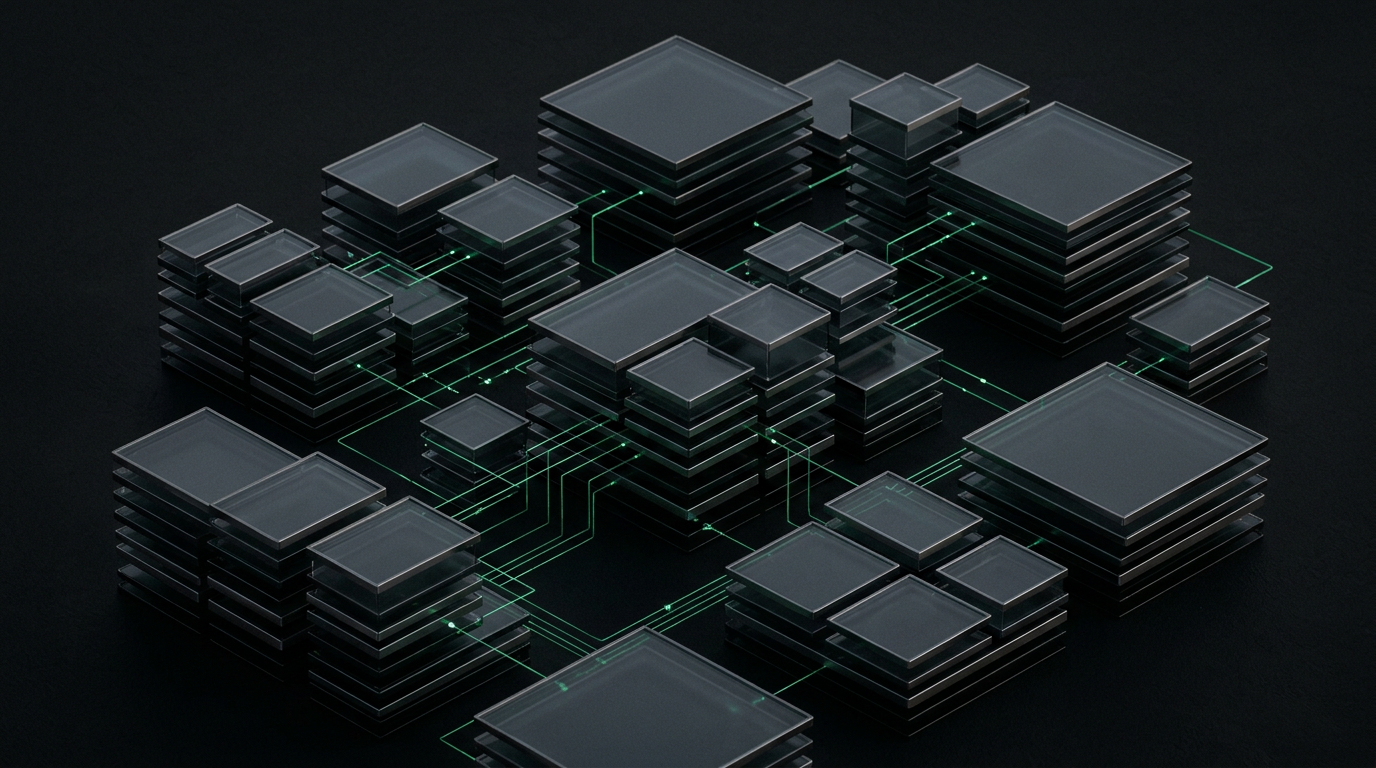
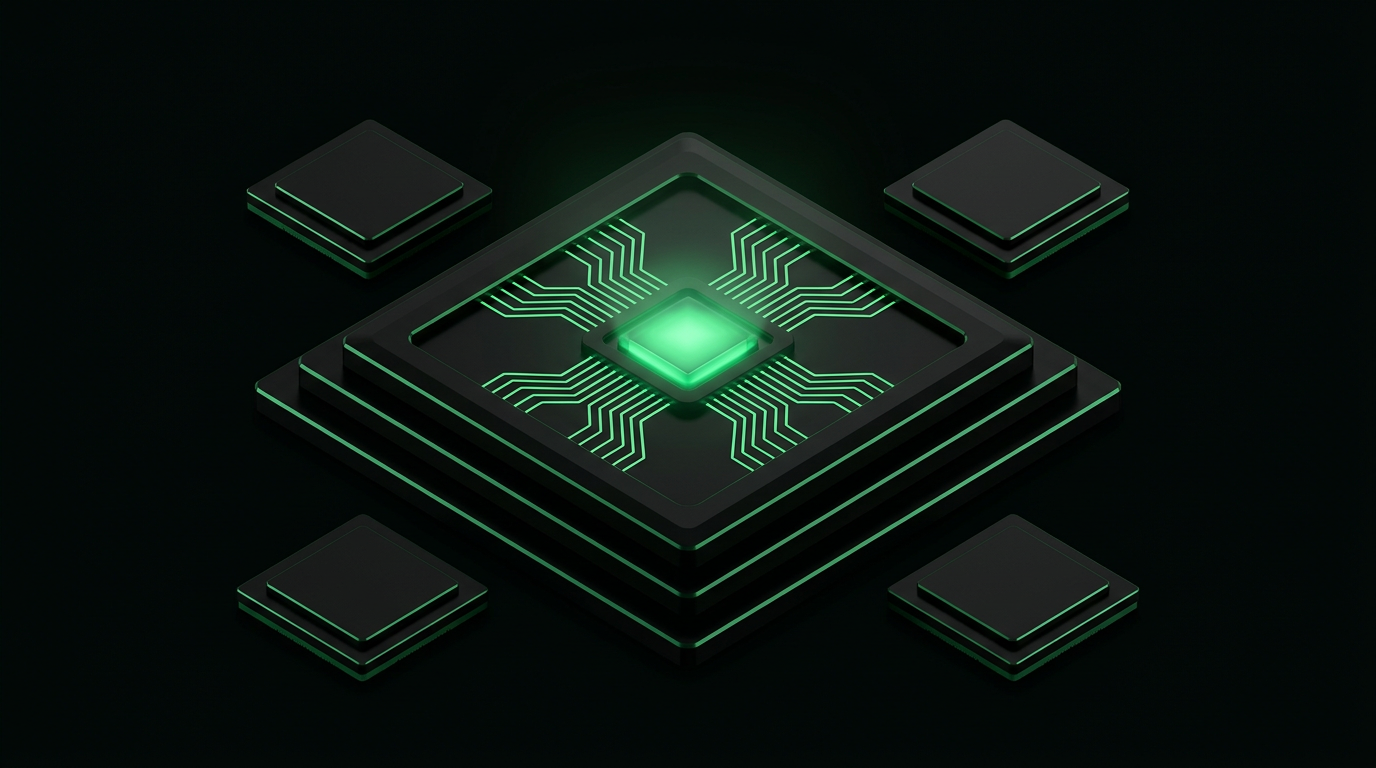
feat: update Action component with new button styles in agynexa-shell

diff --git a/@components/agynexa-shell.tsx b/@components/agynexa-shell.tsx
@@ -4,12 +4,13 @@ import Link from 'next/link'
 import {usePathname} from 'next/navigation'
 import {Menu,X,ArrowUpRight} from 'lucide-react'
 import {nav, type Copy} from '@/lib/agynexa'
+import {Button,buttonVariants} from '@/components/ui/button'
 const LanguageContext=createContext({ar:false,t:(copy:readonly string[])=>copy[0]})
 export const useLanguage=()=>useContext(LanguageContext)
-export function Action({href,children}:{href:string;children:React.ReactNode}){return <Link className="action" href={href}>{children}<ArrowUpRight size={16}/></Link>}
+export function Action({href,children}:{href:string;children:React.ReactNode}){return <Link className={buttonVariants({size:'lg'})} href={href}>{children}<ArrowUpRight size={16}/></Link>}
 export default function Shell({children}:{children:React.ReactNode}){
  const [ar,setAr]=useState(false),[open,setOpen]=useState(false);const path=usePathname();const t=(copy:readonly string[])=>copy[ar?1:0]
  useEffect(()=>{document.documentElement.lang=ar?'ar':'en';document.documentElement.dir=ar?'rtl':'ltr'},[ar])
  useEffect(()=>setOpen(false),[path])
- return <LanguageContext.Provider value={{ar,t}}><a href="#main" className="skip">{t(['Skip to content','تجاوز إلى المحتوى'])}</a><header className="site-header"><div className="container flex flex-wrap items-center justify-between gap-4 py-4"><Link href="/" aria-label="AGYNEXA home" className="brand">AGYNEXA<span className="text-emerald-500">.</span></Link><nav aria-label={t(['Main navigation','التنقل الرئيسي'])} className="hidden items-center gap-6 xl:flex">{nav.slice(0,5).map(([slug,en,ar])=><Link key={slug} aria-current={path===`/${slug}`?'page':undefined} href={`/${slug}`}>{t([en,ar])}</Link>)}</nav><div className="flex items-center gap-3"><button className="quiet" onClick={()=>setAr(!ar)} lang={ar?'en':'ar'}>{ar?'English':'العربية'}</button><div className="hidden sm:block"><Action href="/start">{t(['Start a project','ابدأ مشروعًا'])}</Action></div><button className="quiet" aria-expanded={open} aria-controls="site-menu" aria-label={t(['Toggle menu','فتح القائمة'])} onClick={()=>setOpen(!open)}>{open?<X size={20}/>:<Menu size={20}/>}</button></div></div>{open&&<nav id="site-menu" className="container grid gap-2 border-t py-6 sm:grid-cols-3">{nav.map(([slug,en,ar])=><Link className="quiet" key={slug} href={`/${slug}`}>{t([en,ar])}</Link>)}<Link className="quiet" href="/agentnexos">AgentNexOS</Link><Link className="quiet" href="/start">{t(['Start a project','ابدأ مشروعًا'])}</Link></nav>}</header>{children}<footer className="border-t"><div className="container grid gap-12 py-16 md:grid-cols-3"><div><Link className="brand" href="/">AGYNEXA<span className="text-emerald-500">.</span></Link><p className="muted mt-6">{t(['Systems with purpose. Decisions with evidence.','أنظمة لهدف واضح. وقرارات تستند للأدلة.'])}</p><a className="inline-flex min-h-11 items-center mt-4" href="mailto:adham@agynexa.si">adham@agynexa.si</a></div><nav className="grid grid-cols-2 gap-2">{nav.map(([slug,en,ar])=><Link className="min-h-11" key={slug} href={`/${slug}`}>{t([en,ar])}</Link>)}</nav><div><Action href="/agentnexos">AgentNexOS</Action><p className="muted mt-4 text-sm">{t(['Local interface preview. No connected services or live agent execution.','معاينة واجهة محلية. لا خدمات متصلة أو تنفيذ فعلي للوكلاء.'])}</p></div></div><div className="container border-t py-6 text-sm muted flex flex-wrap justify-between gap-4"><span>© {new Date().getFullYear()} AGYNEXA</span><Link href="/resources#asset-sources">{t(['Asset sources','مصادر الأصول'])}</Link></div></footer></LanguageContext.Provider>
+ return <LanguageContext.Provider value={{ar,t}}><a href="#main" className="skip">{t(['Skip to content','تجاوز إلى المحتوى'])}</a><header className="site-header"><div className="container flex flex-wrap items-center justify-between gap-4 py-4"><Link href="/" aria-label="AGYNEXA home" className="brand">AGYNEXA<span className="text-emerald-500">.</span></Link><nav aria-label={t(['Main navigation','التنقل الرئيسي'])} className="hidden items-center gap-6 xl:flex">{nav.slice(0,5).map(([slug,en,ar])=><Link key={slug} aria-current={path===`/${slug}`?'page':undefined} href={`/${slug}`}>{t([en,ar])}</Link>)}</nav><div className="flex items-center gap-3"><Button variant="outline" size="lg" onClick={()=>setAr(!ar)} lang={ar?'en':'ar'}>{ar?'English':'العربية'}</Button><div className="hidden sm:block"><Action href="/start">{t(['Start a project','ابدأ مشروعًا'])}</Action></div><button className="quiet" aria-expanded={open} aria-controls="site-menu" aria-label={t(['Toggle menu','فتح القائمة'])} onClick={()=>setOpen(!open)}>{open?<X size={20}/>:<Menu size={20}/>}</button></div></div>{open&&<nav id="site-menu" className="container grid gap-2 border-t py-6 sm:grid-cols-3">{nav.map(([slug,en,ar])=><Link className="quiet" key={slug} href={`/${slug}`}>{t([en,ar])}</Link>)}<Link className="quiet" href="/agentnexos">AgentNexOS</Link><Link className="quiet" href="/start">{t(['Start a project','ابدأ مشروعًا'])}</Link></nav>}</header>{children}<footer className="border-t"><div className="container grid gap-12 py-16 md:grid-cols-3"><div><Link className="brand" href="/">AGYNEXA<span className="text-emerald-500">.</span></Link><p className="muted mt-6">{t(['Systems with purpose. Decisions with evidence.','أنظمة لهدف واضح. وقرارات تستند للأدلة.'])}</p><a className="inline-flex min-h-11 items-center mt-4" href="mailto:adham@agynexa.si">adham@agynexa.si</a></div><nav className="grid grid-cols-2 gap-2">{nav.map(([slug,en,ar])=><Link className="min-h-11" key={slug} href={`/${slug}`}>{t([en,ar])}</Link>)}</nav><div><Action href="/agentnexos">AgentNexOS</Action><p className="muted mt-4 text-sm">{t(['Local interface preview. No connected services or live agent execution.','معاينة واجهة محلية. لا خدمات متصلة أو تنفيذ فعلي للوكلاء.'])}</p></div></div><div className="container border-t py-6 text-sm muted flex flex-wrap justify-between gap-4"><span>© {new Date().getFullYear()} AGYNEXA</span><Link href="/resources#asset-sources">{t(['Asset sources','مصادر الأصول'])}</Link></div></footer></LanguageContext.Provider>
 }

diff --git a/app/globals.css b/app/globals.css
@@ -160,7 +160,7 @@
   --popover: #0B0B0B; --popover-foreground: #EBEBEB;
   --muted: #0B0B0B; --muted-foreground: #BFBFBF;
   --secondary: #0B0B0B; --secondary-foreground: #EBEBEB;
-  --primary: #EBEBEB; --primary-foreground: #050505;
+  --primary: #20d99a; --primary-foreground: #03110c;
   --accent: #0B0B0B; --accent-foreground: #10B981;
   --border: #EBEBEB26; --input: #EBEBEB26; --ring: #10B981;
 }
@@ -186,6 +186,40 @@ h2 { font-size: clamp(28px, 4vw, 48px); letter-spacing: -.04em; } h3 { font-size
 .flow-line { stroke-dasharray: 8 8; animation: flow 5s linear infinite; } @keyframes flow { to { stroke-dashoffset: -96; } }
 @media(max-width: 640px) { .section { padding-block: 64px; } .panel { padding: 24px; } }
 @media(prefers-reduced-motion: reduce) { *, *::before, *::after { animation: none !important; transition: none !important; scroll-behavior: auto !important; } }
+
+.premium-hero { padding: 72px 0 0; overflow: hidden; background: radial-gradient(ellipse at 50% 75%, #073b282e, transparent 65%), #050505; }
+.hero-heading { text-align: center; margin: 0 auto 52px; max-width: 900px; }
+.hero-heading .eyebrow { display: flex; align-items: center; justify-content: center; gap: 10px; font-size: 11px; }
+.status-dot { display: inline-block; width: 6px; height: 6px; border-radius: 50%; background: var(--primary); box-shadow: 0 0 12px #20d99a77; flex-shrink: 0; }
+.hero-heading h1 { font-size: clamp(38px, 5.2vw, 72px); font-weight: 500; letter-spacing: -.055em; line-height: 1.08; }
+.hero-heading h1 span { color: var(--primary); }
+.hero-description { color: #9baba3; max-width: 570px; margin: 24px auto 28px; font-size: 16px; }
+.hero-stage { border: 1px solid #234134; border-radius: 14px 14px 0 0; overflow: hidden; background: #080c0a; box-shadow: 0 0 0 6px #0b100d, 0 0 0 7px #ffffff05, 0 32px 90px #000, 0 -15px 100px #0a6c2310; }
+.stage-toolbar { height: 44px; display: flex; align-items: center; justify-content: space-between; padding: 0 24px; font-family: monospace; font-size: 10px; letter-spacing: .08em; border-bottom: 1px solid #213429; color: #7eaa94; background: linear-gradient(#141b16,#090d0a); }
+.stage-media { position: relative; height: 390px; overflow: hidden; background: #030706; }
+.architecture-video { width: 100%; height: 100%; object-fit: cover; filter: grayscale(1) sepia(1) hue-rotate(95deg) saturate(1.8) brightness(.8); }
+.video-tint { position: absolute; inset: 0; pointer-events: none; background: linear-gradient(0deg, #030706e8, transparent 50%), linear-gradient(90deg,#001b1133, transparent,#001b1133); }
+.video-control { position: absolute; right: 20px; top: 20px; }
+.stage-caption { position: absolute; bottom: 28px; left: 32px; right: 32px; pointer-events: none; }
+.stage-caption-tag { font: 10px monospace; color: #20d99a; letter-spacing: .16em; }
+.stage-caption p { font-size: 25px; margin-top: 8px; }
+.stage-footer { display: grid; grid-template-columns: repeat(3,1fr); border-top: 1px solid #1a3024; }
+.stage-footer>div { display: flex; gap: 14px; align-items: center; padding: 20px 24px; font-size: 12px; }
+.stage-footer>div+div { border-inline-start: 1px solid #1a3024; }
+.stage-footer span { color: var(--primary); font: 10px monospace; } .stage-footer svg { margin-inline-start: auto; color: #5f8e75; }
+.panel { background: linear-gradient(145deg,#121814 0%,#080b09 45%,#050706 100%); border-color: #26352c; box-shadow: inset 0 1px 0 #ffffff06, 0 12px 24px #0005; border-radius: 10px; }
+a.panel { transition: border-color .25s, transform .25s, box-shadow .25s; }
+a.panel:hover { transform: translateY(-4px); border-color: #20d99a88; box-shadow: 0 18px 35px #000, inset 0 1px 0 #20d99a44; color: var(--foreground); }
+a.panel>div:first-child { padding-bottom: 20px; border-bottom: 1px solid #193225; }
+a.panel>p:last-child { color: var(--primary); }
+.section { background: radial-gradient(ellipse at 50% 100%, #0b1b111c, transparent 65%); }
+.site-header { background: linear-gradient(#0b0e0c,#050505); }
+.site-header nav a { font-size: 13px; color: #a8b5ad; } .site-header nav a:hover { color: var(--primary); }
+.action { background: var(--primary); color: var(--primary-foreground); border-color: #59edb7; box-shadow: inset 0 1px 0 #b7ffe855, 0 4px 16px #10b98112; }
+.action:hover { background: #49edb1; color: #03110c; }
+[lang=ar] .hero-heading h1 { line-height: 1.45; }
+[data-slot=dialog-content] { border: 1px solid #25523b; box-shadow: 0 24px 100px #000; background: #080d0a; }
+@media(max-width:640px) { .premium-hero { padding-top: 48px; } .hero-heading { margin-bottom: 36px; } .hero-description { font-size: 14px; } .stage-media { height: 300px; } .stage-toolbar { padding: 0 12px; font-size: 8px; } .stage-toolbar>span:last-child { display: none; } .stage-footer>div { padding: 14px 10px; gap: 8px; font-size: 10px; } .stage-footer svg { display: none; } .stage-caption { left: 20px; right: 20px; } .stage-caption p { font-size: 20px; } }
 
 @layer base {
   * {

diff --git a/@components/landing-5-hero-section.tsx b/@components/landing-5-hero-section.tsx
@@ -1,4 +1,10 @@
 'use client'
+import { ArrowUpRight, Play, Command, Database, ShieldCheck, Workflow } from 'lucide-react'
 import HeroVideo from './landing-5-hero-video'
-import {Action,useLanguage} from './agynexa-shell'
-export default function HeroSection(){const {t}=useLanguage();return <section className="relative mx-auto flex min-h-[640px] flex-col justify-end lg:min-h-200 xl:aspect-video"><div className="absolute inset-0 overflow-hidden"><HeroVideo/><div className="absolute inset-0 pointer-events-none bg-gradient-to-t from-background via-background/10 to-transparent"/></div><div className="container relative z-10 pb-12 pointer-events-none"><div className="max-w-4xl"><p className="eyebrow">{t(['Enterprise agent engineering','هندسة وكلاء المؤسسات'])}</p><h1 className="max-w-3xl text-5xl tracking-tight md:text-7xl">{t(['Intelligence, built to do real work.','ذكاء مصمّم لإنجاز عمل حقيقي.'])}</h1><div className="mt-8 flex flex-wrap items-end justify-between gap-8"><p className="max-w-lg muted text-lg">{t(['Connect your knowledge, tools and decisions. Keep permissions explicit. Keep people in control.','اربط المعرفة والأدوات والقرارات. بصلاحيات واضحة، وتحكم يبقى بيد الإنسان.'])}</p><div className="pointer-events-auto"><Action href="/start">{t(['Define your next system','حدّد نظامك القادم'])}</Action></div></div></div></div></section>}
+import { Action, useLanguage } from './agynexa-shell'
+import { Button } from '@/components/ui/button'
+import { Dialog, DialogTrigger, DialogContent, DialogHeader, DialogTitle, DialogDescription } from '@/components/ui/dialog'
+export default function HeroSection() {
+ const {t,ar}=useLanguage()
+ return <section className="premium-hero"><div className="container"><div className="hero-heading"><p className="eyebrow"><span className="status-dot"/>{t(['ENGINEERED INTELLIGENCE. HUMAN CONTROL.','ذكاء مُهندَس. وتحكّم بشري.'])}</p><h1>{t(['Intelligence, engineered.','ذكاءٌ مُهندَس.'])}<br/><span>{t(['Built for your business.','مصمّم لأعمالك.'])}</span></h1><p className="hero-description">{t(['Your knowledge. Your workflows. One connected agent system. Designed with clear permissions, human oversight and a purpose.','معرفتك. سير عملك. نظام وكلاء مترابط. نصمّمه بصلاحيات واضحة وإشراف بشري وهدف محدّد.'])}</p><div className="flex justify-center flex-wrap gap-3"><Action href="/start">{t(['Engineer your next system','صمّم نظامك القادم'])}</Action><Dialog><DialogTrigger render={<Button variant="outline" size="lg"/>}><Play data-icon="inline-start"/>{t(['Explore the architecture','استكشف البنية'])}</DialogTrigger><DialogContent className="sm:max-w-3xl max-h-[90dvh] overflow-y-auto p-8" dir={ar?'rtl':'ltr'}><DialogHeader><DialogTitle>{t(['A system, not an isolated tool.','نظام مترابط، لا أداة معزولة.'])}</DialogTitle><DialogDescription>{t(['An architectural overview. This is not a live agent execution.','نظرة على البنية، وليست تنفيذًا فعليًا للوكيل.'])}</DialogDescription></DialogHeader><img src="/images/architecture.png" alt={t(['Emerald agent processor and connected modules','معالج وكلاء زمردي ووحدات مترابطة'])} className="w-full rounded-lg"/><div className="grid sm:grid-cols-3 gap-4">{[[Database,'01 / Knowledge','01 / المعرفة'],[Workflow,'02 / Orchestration','02 / التنسيق'],[ShieldCheck,'03 / Human review','03 / مراجعة بشرية']].map(([Icon,en,ar])=>{const I=Icon as typeof Database;return <div className="panel" key={String(en)}><I className="mb-4 text-primary"/><p>{t([en as string,ar as string])}</p></div>})}</div></DialogContent></Dialog></div></div><div className="hero-stage"><div className="stage-toolbar"><span className="flex items-center gap-2"><Command size={15}/> AGYNEXA <span className="muted">/</span> <span className="muted">SYSTEM ENGINEERING</span></span><span className="flex items-center gap-2"><span className="status-dot"/>{t(['ARCHITECTURE FILM','عرض البنية'])}</span></div><div className="stage-media"><HeroVideo/><div className="stage-caption"><span className="stage-caption-tag">AGENTNEXOS / 01</span><p>{t(['From knowledge to coordinated action.','من المعرفة إلى العمل المنسّق.'])}</p></div></div><div className="stage-footer">{[['01','Grounded knowledge','معرفة موثوقة'],['02','Connected workflows','سير عمل مترابط'],['03','Human control','تحكّم بشري']].map(([n,en,ar])=><div key={n}><span>{n}</span><p>{t([en,ar])}</p><ArrowUpRight size={14}/></div>)}</div></div></div></section>
+}

diff --git a/@ui/dialog.tsx b/@ui/dialog.tsx
@@ -1,0 +1,160 @@
+"use client"
+
+import * as React from "react"
+import { Dialog as DialogPrimitive } from "@base-ui/react/dialog"
+import { cn } from "@/lib/utils"
+
+import { Button } from "@/components/ui/button"
+import { XIcon } from "lucide-react"
+
+function Dialog({ ...props }: DialogPrimitive.Root.Props) {
+  return <DialogPrimitive.Root data-slot="dialog" {...props} />
+}
+
+function DialogTrigger({ ...props }: DialogPrimitive.Trigger.Props) {
+  return <DialogPrimitive.Trigger data-slot="dialog-trigger" {...props} />
+}
+
+function DialogPortal({ ...props }: DialogPrimitive.Portal.Props) {
+  return <DialogPrimitive.Portal data-slot="dialog-portal" {...props} />
+}
+
+function DialogClose({ ...props }: DialogPrimitive.Close.Props) {
+  return <DialogPrimitive.Close data-slot="dialog-close" {...props} />
+}
+
+function DialogOverlay({
+  className,
+  ...props
+}: DialogPrimitive.Backdrop.Props) {
+  return (
+    <DialogPrimitive.Backdrop
+      data-slot="dialog-overlay"
+      className={cn(
+        "fixed inset-0 isolate z-50 bg-black/10 duration-100 supports-backdrop-filter:backdrop-blur-xs data-open:animate-in data-open:fade-in-0 data-closed:animate-out data-closed:fade-out-0",
+        className
+      )}
+      {...props}
+    />
+  )
+}
+
+function DialogContent({
+  className,
+  children,
+  showCloseButton = true,
+  ...props
+}: DialogPrimitive.Popup.Props & {
+  showCloseButton?: boolean
+}) {
+  return (
+    <DialogPortal>
+      <DialogOverlay />
+      <DialogPrimitive.Popup
+        data-slot="dialog-content"
+        className={cn(
+          "fixed top-1/2 left-1/2 z-50 grid w-full max-w-[calc(100%-2rem)] -translate-x-1/2 -translate-y-1/2 gap-4 rounded-xl bg-popover p-4 text-sm text-popover-foreground ring-1 ring-foreground/10 duration-100 outline-none sm:max-w-sm data-open:animate-in data-open:fade-in-0 data-open:zoom-in-95 data-closed:animate-out data-closed:fade-out-0 data-closed:zoom-out-95",
+          className
+        )}
+        {...props}
+      >
+        {children}
+        {showCloseButton && (
+          <DialogPrimitive.Close
+            data-slot="dialog-close"
+            render={
+              <Button
+                variant="ghost"
+                className="absolute top-2 right-2"
+                size="icon-sm"
+              />
+            }
+          >
+            <XIcon
+            />
+            <span className="sr-only">Close</span>
+          </DialogPrimitive.Close>
+        )}
+      </DialogPrimitive.Popup>
+    </DialogPortal>
+  )
+}
+
+function DialogHeader({ className, ...props }: React.ComponentProps<"div">) {
+  return (
+    <div
+      data-slot="dialog-header"
+      className={cn("flex flex-col gap-2", className)}
+      {...props}
+    />
+  )
+}
+
+function DialogFooter({
+  className,
+  showCloseButton = false,
+  children,
+  ...props
+}: React.ComponentProps<"div"> & {
+  showCloseButton?: boolean
+}) {
+  return (
+    <div
+      data-slot="dialog-footer"
+      className={cn(
+        "-mx-4 -mb-4 flex flex-col-reverse gap-2 rounded-b-xl border-t bg-muted/50 p-4 sm:flex-row sm:justify-end",
+        className
+      )}
+      {...props}
+    >
+      {children}
+      {showCloseButton && (
+        <DialogPrimitive.Close render={<Button variant="outline" />}>
+          Close
+        </DialogPrimitive.Close>
+      )}
+    </div>
+  )
+}
+
+function DialogTitle({ className, ...props }: DialogPrimitive.Title.Props) {
+  return (
+    <DialogPrimitive.Title
+      data-slot="dialog-title"
+      className={cn(
+        "text-base leading-none font-medium",
+        className
+      )}
+      {...props}
+    />
+  )
+}
+
+function DialogDescription({
+  className,
+  ...props
+}: DialogPrimitive.Description.Props) {
+  return (
+    <DialogPrimitive.Description
+      data-slot="dialog-description"
+      className={cn(
+        "text-sm text-muted-foreground *:[a]:underline *:[a]:underline-offset-3 *:[a]:hover:text-foreground",
+        className
+      )}
+      {...props}
+    />
+  )
+}
+
+export {
+  Dialog,
+  DialogClose,
+  DialogContent,
+  DialogDescription,
+  DialogFooter,
+  DialogHeader,
+  DialogOverlay,
+  DialogPortal,
+  DialogTitle,
+  DialogTrigger,
+}

diff --git a/@components/landing-5-hero-video.tsx b/@components/landing-5-hero-video.tsx
@@ -1,10 +1,10 @@
 'use client'
 import {useEffect,useRef,useState} from 'react'
-import Image from 'next/image'
 import {Pause,Play} from 'lucide-react'
+import {Button} from '@/components/ui/button'
 import {useLanguage} from './agynexa-shell'
 export default function HeroVideo(){
- const ref=useRef<HTMLVideoElement>(null);const [playing,setPlaying]=useState(false);const [reduced,setReduced]=useState(true);const {t}=useLanguage()
- useEffect(()=>{const query=matchMedia('(prefers-reduced-motion: reduce)');const sync=()=>{setReduced(query.matches);if(query.matches){ref.current?.pause();setPlaying(false)}else if(ref.current){ref.current.playbackRate=.5;ref.current.play().then(()=>setPlaying(true)).catch(()=>setPlaying(false))}};sync();query.addEventListener('change',sync);return()=>query.removeEventListener('change',sync)},[])
- return <><Image src="/images/architecture.png" alt="" fill priority sizes="100vw" className="object-cover"/><video ref={ref} aria-hidden muted loop playsInline preload="metadata" poster="/images/architecture.png" className={`absolute inset-0 size-full object-cover ${reduced?'invisible':''}`} src="https://videos.pexels.com/video-files/18419650/18419650-uhd_2560_1440_30fps.mp4" onPlay={()=>setPlaying(true)} onPause={()=>setPlaying(false)}/>{!reduced&&<button className="quiet absolute end-6 top-6 z-20 bg-black/70" onClick={()=>{if(playing)ref.current?.pause();else ref.current?.play().catch(()=>setPlaying(false))}}>{playing?<Pause size={16}/>:<Play size={16}/>} {t(playing?['Pause video','إيقاف الفيديو']:['Play video','تشغيل الفيديو'])}</button>}</>
+ const ref=useRef<HTMLVideoElement>(null); const [playing,setPlaying]=useState(false); const [failed,setFailed]=useState(false);const {t}=useLanguage()
+ useEffect(()=>{const query=matchMedia('(prefers-reduced-motion: reduce)'); const sync=()=>{if(query.matches)ref.current?.pause();else ref.current?.play().catch(()=>setPlaying(false))};sync();query.addEventListener('change',sync);return()=>query.removeEventListener('change',sync)},[])
+ return <><video ref={ref} muted loop playsInline preload="auto" poster="/images/architecture.png" className="architecture-video" src="https://videos.pexels.com/video-files/18419650/18419650-uhd_2560_1440_30fps.mp4" onError={()=>setFailed(true)} onPlay={()=>setPlaying(true)} onPause={()=>setPlaying(false)} aria-label={t(['Atmospheric system visualization','تصوير بصري لأجواء النظام'])}/><div className="video-tint"/><div className="video-control">{failed?<p role="status">{t(['Video unavailable. Architecture preview shown.','الفيديو غير متاح. تُعرض معاينة البنية.'])}</p>:<Button variant="outline" size="sm" aria-label={t(playing?['Pause video','إيقاف الفيديو']:['Play video','تشغيل الفيديو'])} onClick={()=>{if(playing)ref.current?.pause();else ref.current?.play().catch(()=>setFailed(true))}}>{playing?<Pause/>:<Play/>}{t(playing?['Pause','إيقاف']:['Play film','تشغيل الفيديو'])}</Button>}</div></>
 }

diff --git a/@ui/button.tsx b/@ui/button.tsx
@@ -3,7 +3,7 @@ import { cva, type VariantProps } from 'class-variance-authority'
 
 import { cn } from '@/lib/utils'
 
-const buttonVariants = cva('cursor-pointer inline-flex items-center justify-center gap-2 whitespace-nowrap rounded-full text-sm font-medium focus-visible:outline-none focus-visible:ring-1 focus-visible:ring-ring disabled:pointer-events-none disabled:opacity-50 [&_svg]:pointer-events-none active:scale-98 duration-200 [&_svg]:size-4 [&_svg]:shrink-0', {
+const buttonVariants = cva('cursor-pointer inline-flex items-center justify-center gap-2 whitespace-nowrap rounded-lg text-sm font-medium focus-visible:outline-none focus-visible:ring-1 focus-visible:ring-ring disabled:pointer-events-none disabled:opacity-50 [&_svg]:pointer-events-none active:scale-98 duration-200 [&_svg]:size-4 [&_svg]:shrink-0', {
     variants: {
         variant: {
             default: 'shadow-sm shadow-black/10 bg-primary text-primary-foreground hover:bg-primary/90',
@@ -17,7 +17,7 @@ const buttonVariants = cva('cursor-pointer inline-flex items-center justify-cent
             default: 'h-9 px-4 has-data-[icon=inline-end]:pr-1.5 has-data-[icon=inline-start]:pl-1.5',
             xs: "h-6 px-2 text-xs has-data-[icon=inline-end]:pr-1.5 has-data-[icon=inline-start]:pl-1.5 [&_svg:not([class*='size-'])]:size-3",
             sm: "h-8 px-3 text-[0.8rem] has-data-[icon=inline-end]:pr-1.5 has-data-[icon=inline-start]:pl-2 [&_svg:not([class*='size-'])]:size-3.5",
-            lg: 'h-10 px-5 has-data-[icon=inline-end]:pr-2.5 has-data-[icon=inline-start]:pl-2.5',
+            lg: 'h-12 px-6 has-data-[icon=inline-end]:pr-2.5 has-data-[icon=inline-start]:pl-2.5',
             icon: 'size-9',
             'icon-xs': "size-6 [&_svg:not([class*='size-'])]:size-3",
             'icon-sm': 'size-8',
